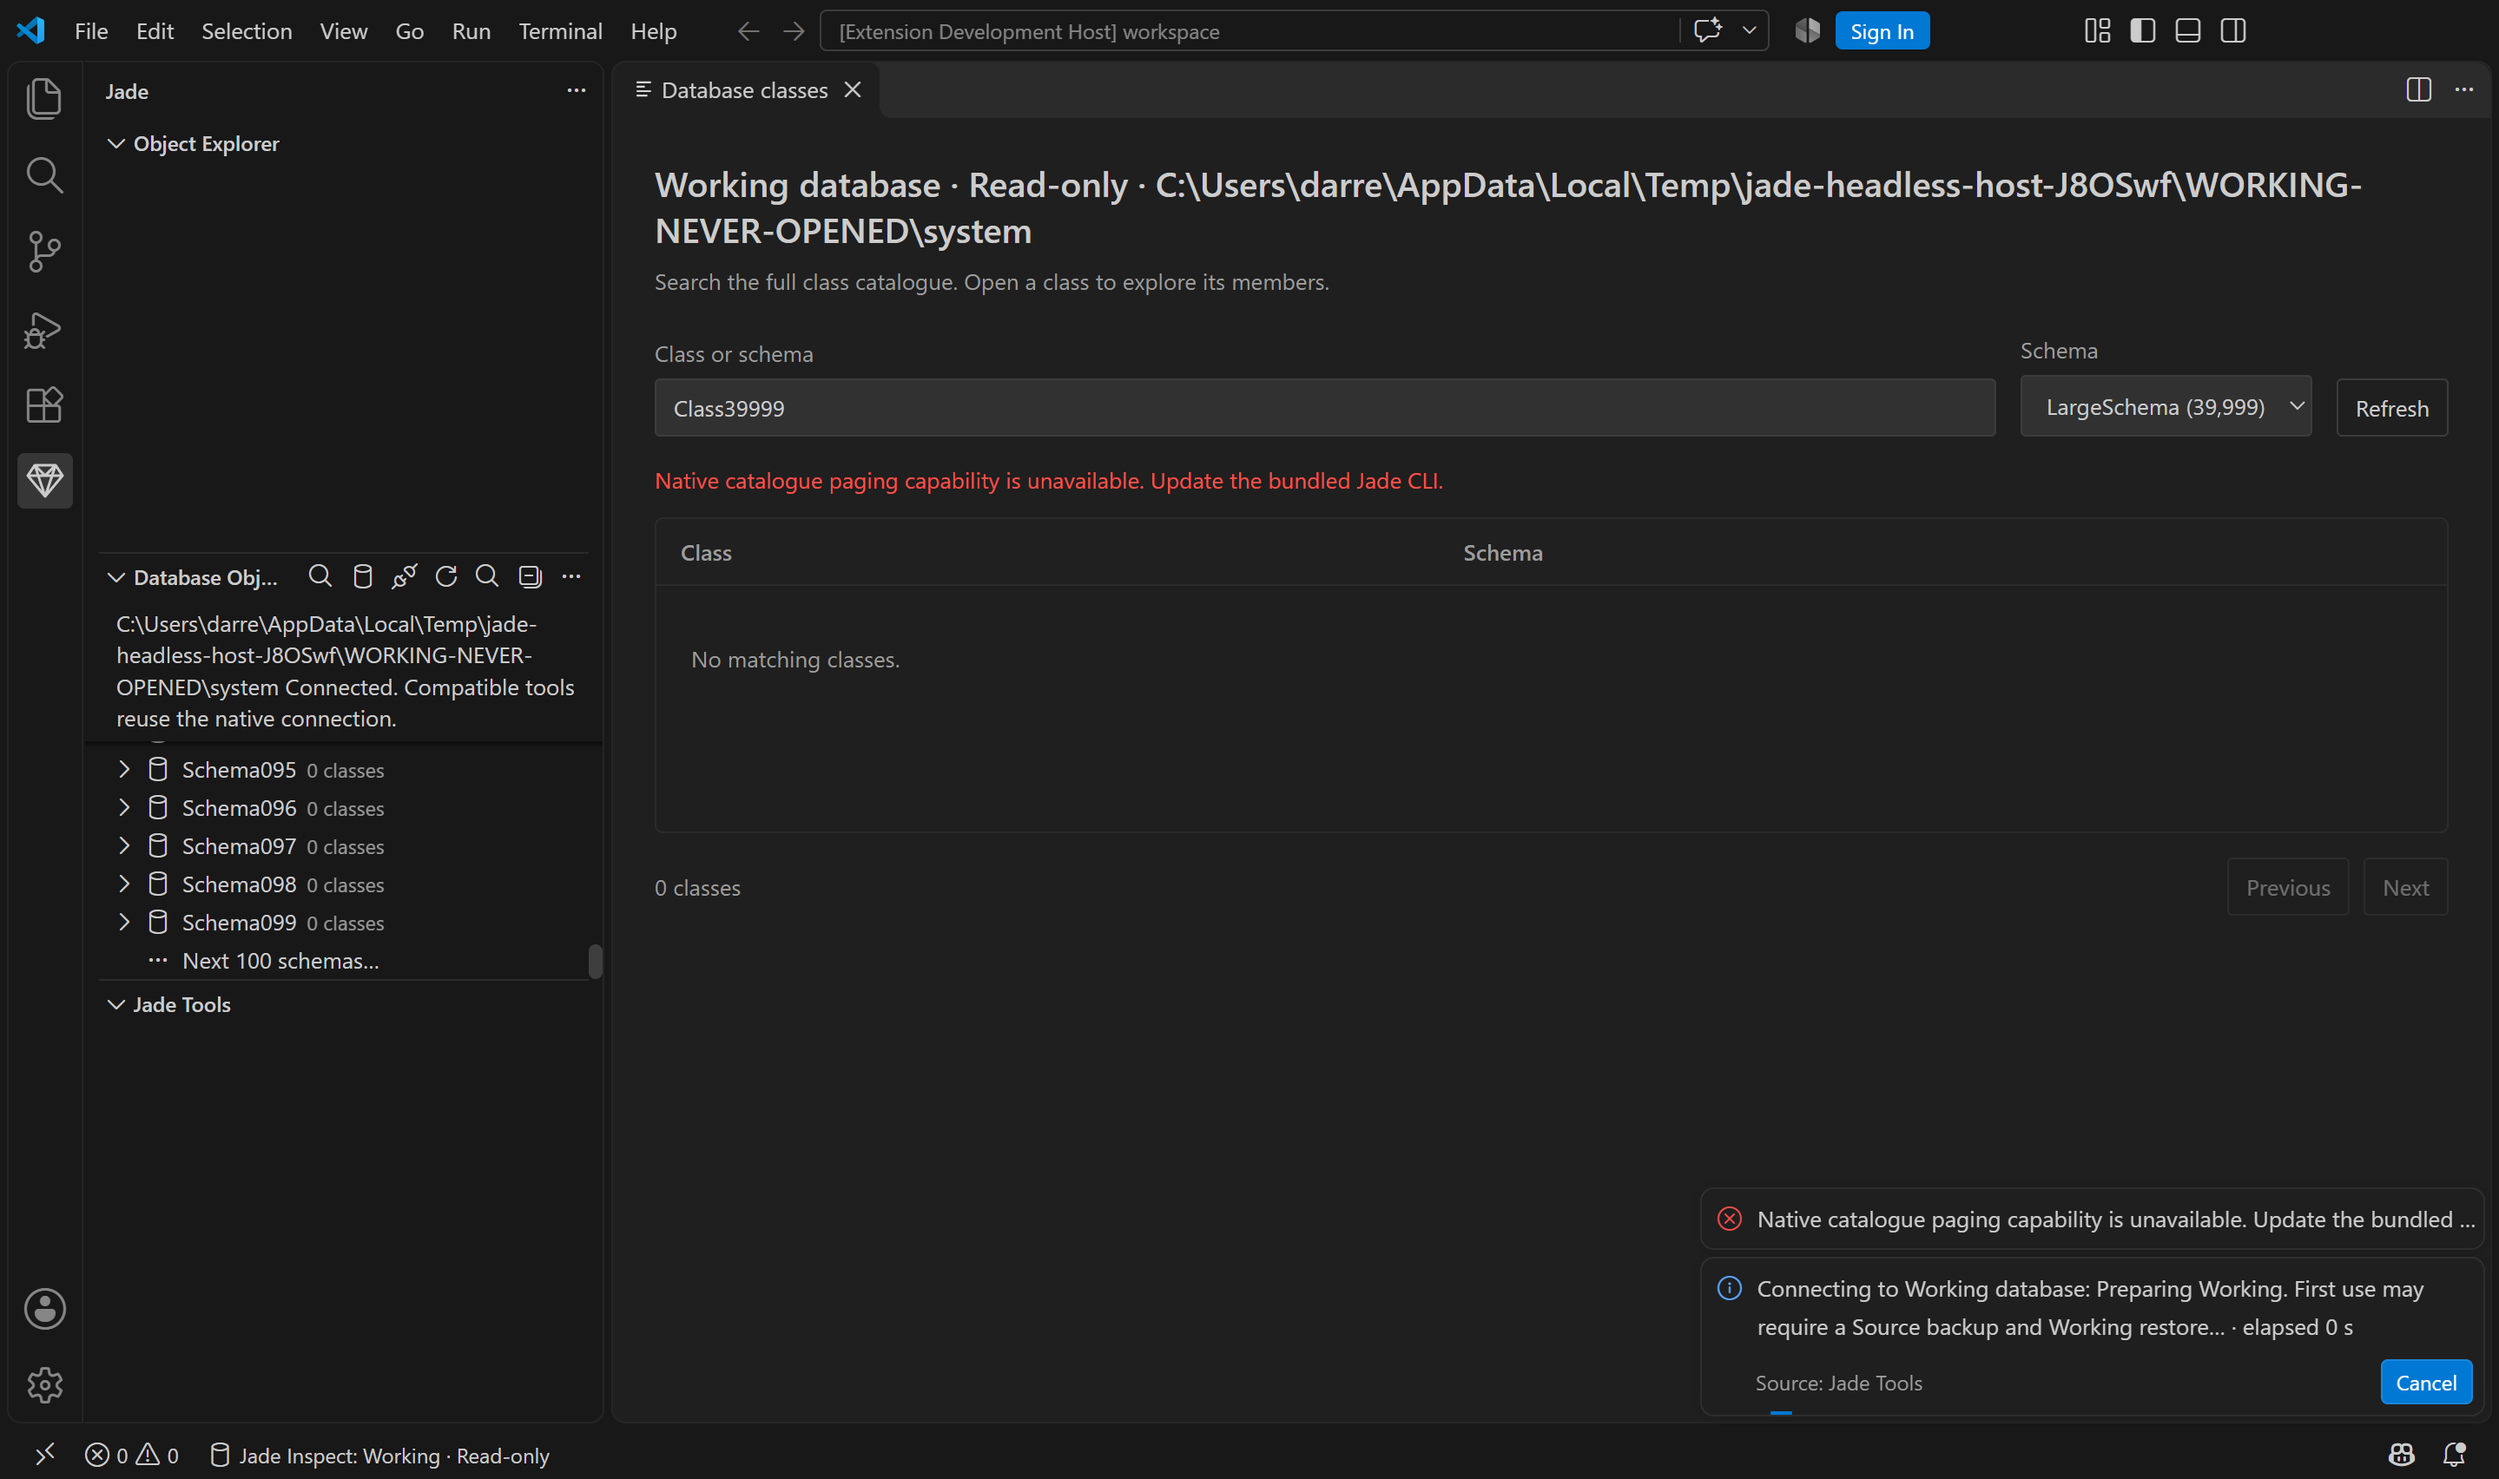
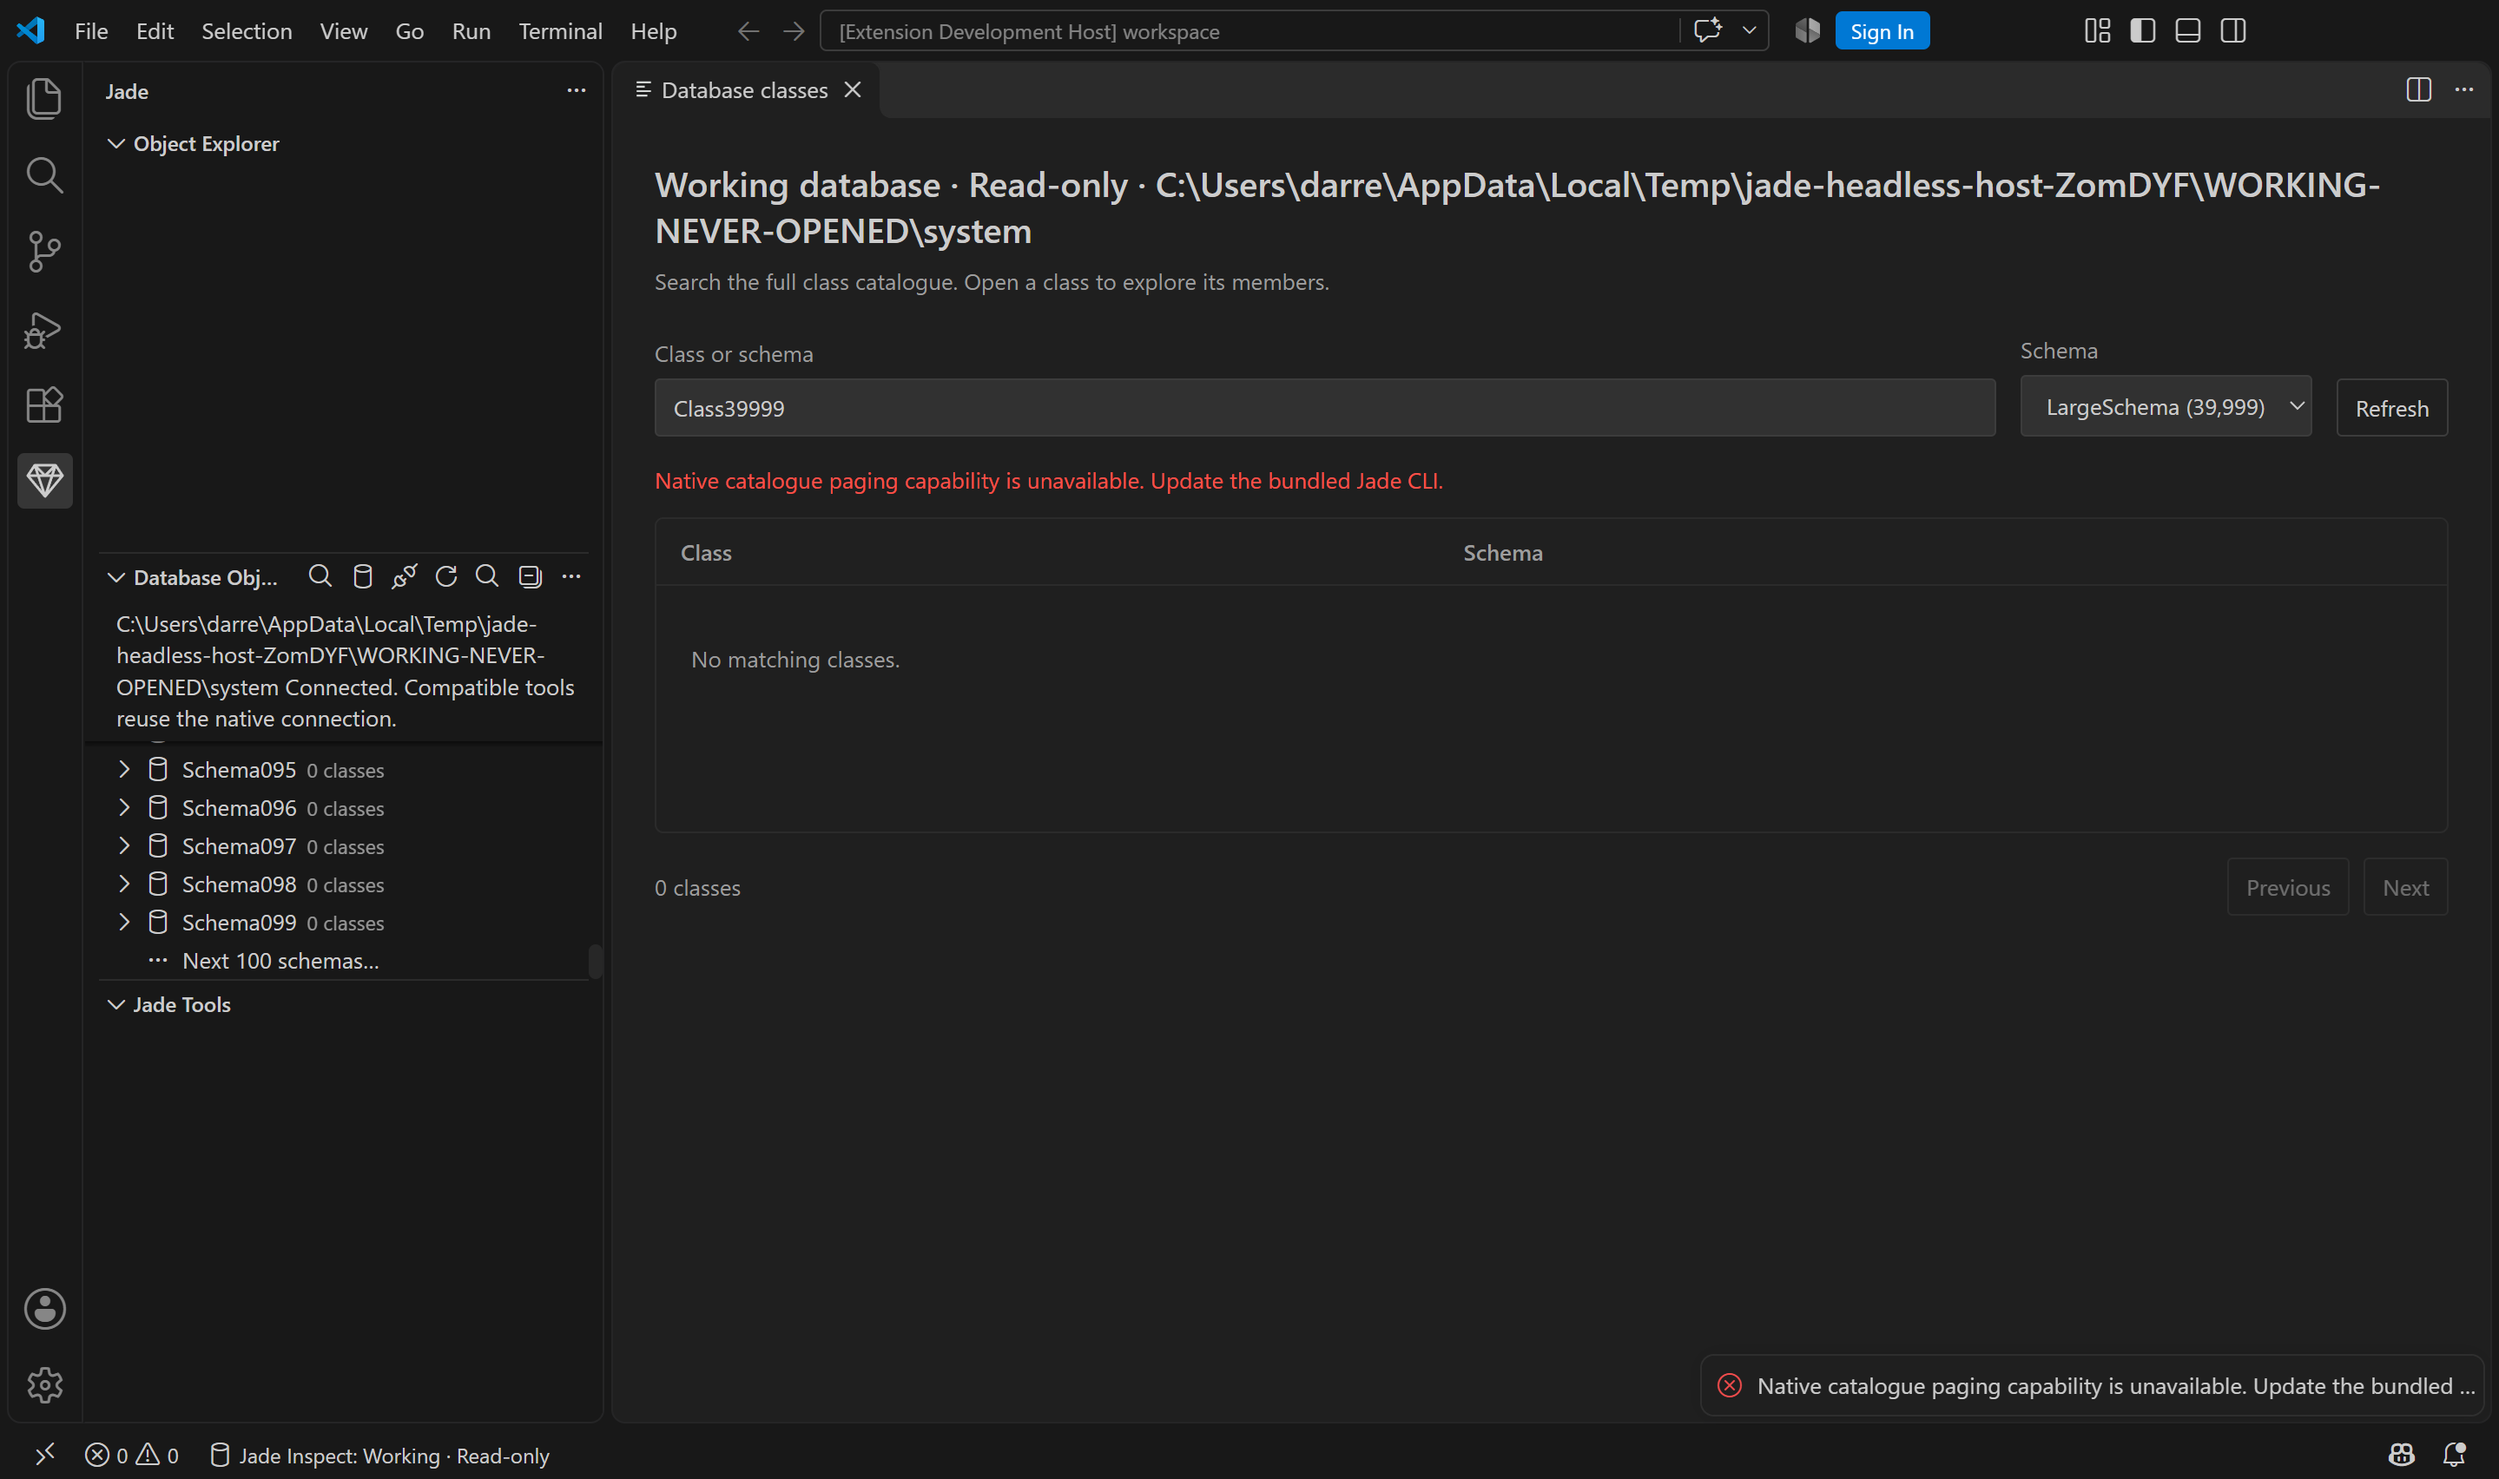
Record settled progress notification after native refresh failure
Refs #112 and #15; evidence only, unchanged VSIX/runtime/source.

diff --git a/docs/verification/ISSUE15-CONTROLLED-UI.md b/docs/verification/ISSUE15-CONTROLLED-UI.md
@@ -24,3 +24,5 @@ The schema directory currently counts each containing schema list, whereas class
 Snapshot invalidation covers explicit Refresh, reacquisition, connection epoch and selected-target transitions. It does **not** establish notification-driven detection of external mutations on an unchanged multiuser connection. Use explicit Refresh to recover stale native metadata; automatic external-change behavior remains unqualified.
 
 A coherent native #90 dependency (coordinated with #17), actual native qualification, genuine official consumer pin, final portable package/current-head CI and reviews remain pending. This evidence does not make #15 Ready or close its broader acceptance criteria.
+
+The same VSIX was used for a separate notification-settlement observation. The actual refresh command promise had resolved, while VS Code briefly retained its completed progress toast: it was last observed at794ms and absent by902ms after command completion. The final error screenshot was replaced only after the toast disappeared. This establishes a transient presentation delay in this controlled run, not a still-pending connection or a universal display-time guarantee. No product, package or tests changed for this recapture.
